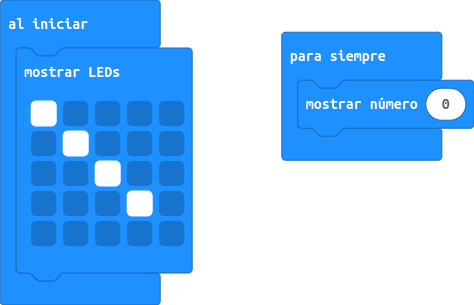
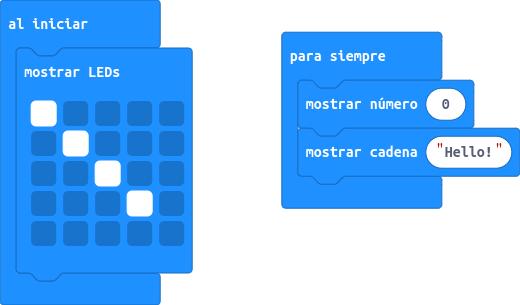
Actualizar main.blocks, main.ts

diff --git a/main.ts b/main.ts
@@ -7,4 +7,5 @@ basic.showLeds(`
     `)
 basic.forever(function () {
     basic.showNumber(0)
+    basic.showString("Hello!")
 })
